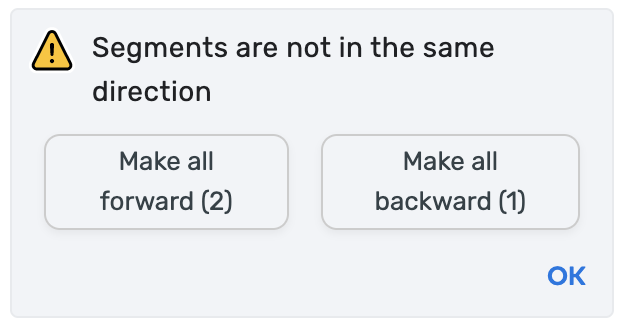
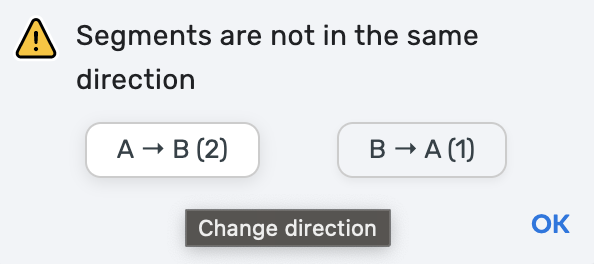
Fixed issue with multiple selection

diff --git a/WME-E87.user.js b/WME-E87.user.js
@@ -1,6 +1,6 @@
 // ==UserScript==
 // @name         WME E87 Inconsistent direction
-// @version      0.0.3
+// @version      0.0.4
 // @description  Solves the inconsistent direction problem
 // @license      MIT License
 // @author       Anton Shevchuk
@@ -89,8 +89,8 @@
   const SETTINGS = {}
 
   class E87 extends WMEBase {
-    constructor (name) {
-      super(name)
+    constructor (name, settings = null) {
+      super(name, settings)
 
       /** @type {WMEUIHelper} */
       this.helper = new WMEUIHelper(this.name)
@@ -200,12 +200,14 @@
       let forward = [], reverse = []
 
       for (let el in segments) {
-        if (!Number.isNaN(Number.parseInt(el))) {
-          if (segments[el]) {
-            reverse.push(el)
-          } else {
-            forward.push(el)
-          }
+        el = Number.parseInt(el)
+        if (Number.isNaN(el)) {
+          continue
+        }
+        if (segments[el]) {
+          reverse.push(el)
+        } else {
+          forward.push(el)
         }
       }
 

diff --git a/README.md b/README.md
@@ -3,6 +3,12 @@ Solves the inconsistent direction problem
 
 ![](screenshot.png)
 
+![](example.gif)
+
+Or just reverse the segment direction
+
+![](reverse.png)
+
 ## Links
 Author homepage: http://anton.shevchuk.name/  
 Script homepage: https://github.com/AntonShevchuk/wme-e87/  
